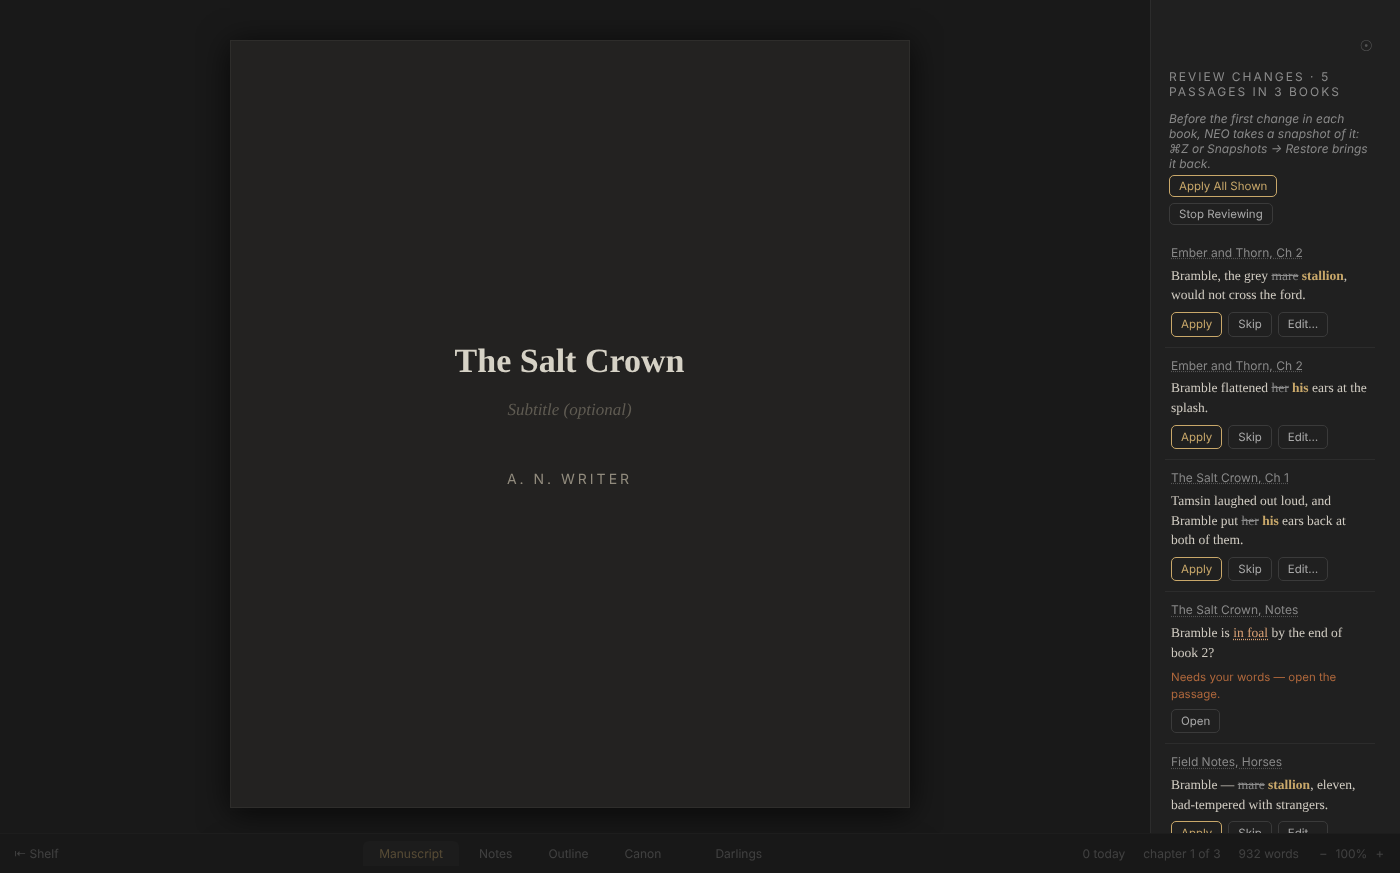
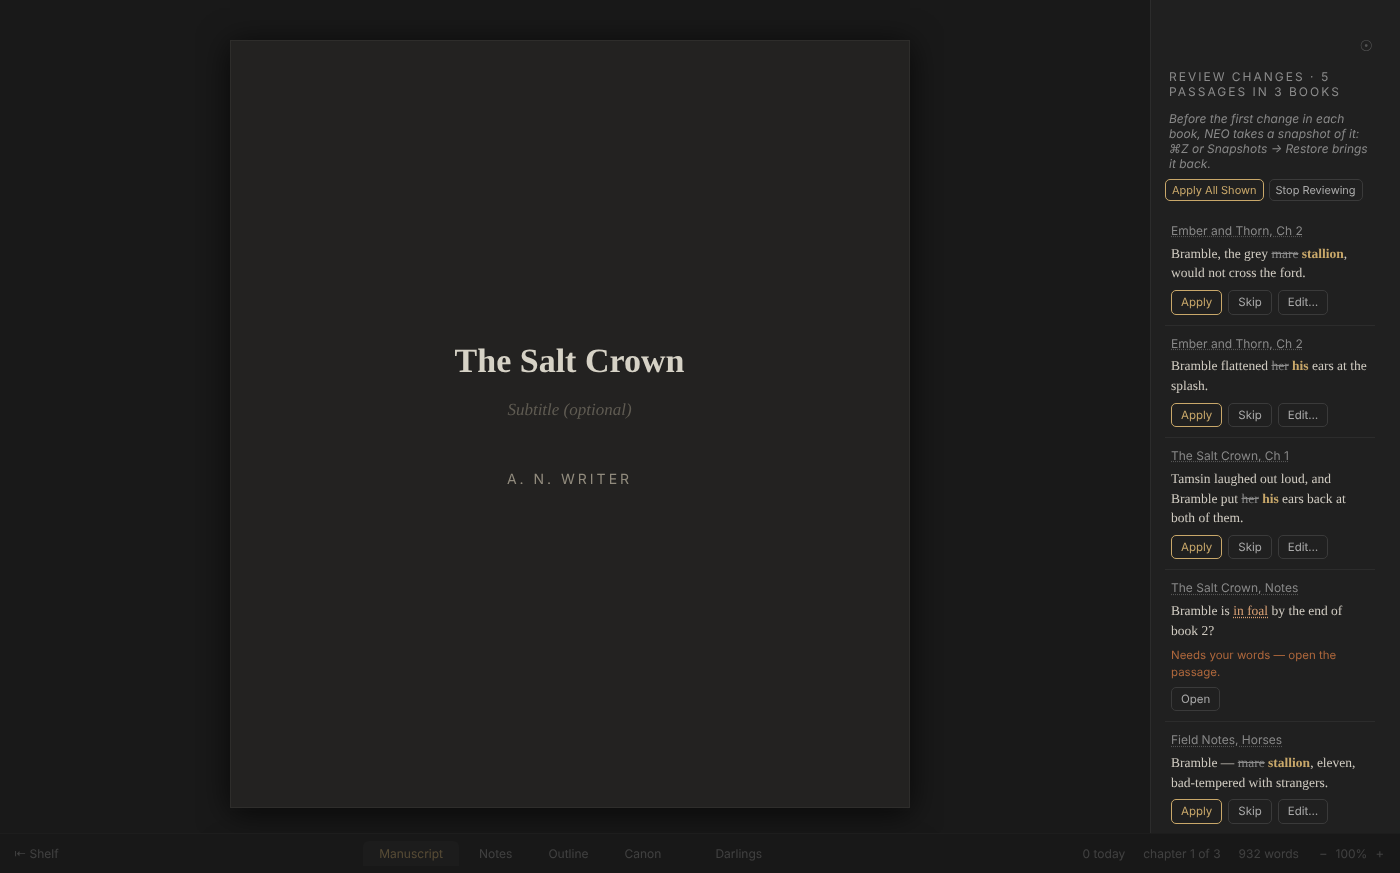
Canon: the review list after ⌘Z, and its two buttons on one line
A passage applied in the open book and undone with ⌘Z is back on the
list to apply again; Apply All Shown and Stop Reviewing no longer wrap in
the narrow pane. The e2e sends keys and hovers again until they land, and
CANON_SHOTS can name the screenshots wanted.

Claude-Session: https://claude.ai/code/session_01Uymcuup9eK8coCqa1NBqGH

Changed region(s): [[0.8293, 0.1856, 0.9829, 0.9588]]

diff --git a/scripts/canon.e2e.js b/scripts/canon.e2e.js
@@ -351,9 +351,12 @@ test('Bramble is now a stallion: the review list, snapshots first, each change a
   assert.match(fs.readdirSync(path.join(LIB, SALT, 'snapshots')).join(), /Z-r-/);
   await js(`document.execCommand('undo')`);
   assert.match(await js(para), /Bramble put her ears back/);
+  await until(`canonReview.items[2].state === 'todo'`); // and the list says so again
   // the rest: Apply All Shown, there once the whole list has been seen
   await js(`${items}.at(-1).scrollIntoView()`);
   await until(`[...document.querySelectorAll('#canon-side button')].some((b) => b.textContent === 'Apply All Shown')`);
+  // Apply All Shown and Stop Reviewing sit on one line in the narrow pane
+  assert.equal(await js(`(() => { const [a, b] = document.querySelectorAll('#canon-side .cs-review-top button'); return a.getBoundingClientRect().top === b.getBoundingClientRect().top && a.getBoundingClientRect().height < 30; })()`), true);
   await js(`[...document.querySelectorAll('#canon-side button')].find((b) => b.textContent === 'Apply All Shown').click()`);
   await until(`!canonReview.items.some((x) => x.state === 'todo')`);
   assert.equal(await js(`document.querySelector('#canon-side .cs-done').textContent`), '4 passages changed, 0 skipped. Bramble is a stallion.');
@@ -513,15 +516,21 @@ test('Mentioned in: reading order, folded after eight, a passage opens its chapt
 });
 
 const SIDE_X = 1395;
+// input sent to a window that's busy settling can be lost: send it again until it lands
+const until2 = async (send, code, tries = 4) => {
+  for (let i = 0; i < tries; i++) {
+    send();
+    try { return await until(code, 2000); } catch (err) { if (i === tries - 1) throw err; }
+  }
+};
 test('In this chapter: the right-hand pane lists who and what the chapter names, the caret\'s in the accent', async () => {
   await js(`openBook('${SALT}')`);
   await until(`book && book.id === '${SALT}'`);
   await js(`switchTab('manuscript')`);
   // the caret in Bramble's paragraph of Ch 1
   await js(`(() => { const p = [...document.querySelectorAll('.chapter[data-id="c1"] .chapter-body p')].find((x) => x.textContent.includes('did not like the convoy')); p.scrollIntoView({ block: 'center' }); const r = document.createRange(); r.setStart(p.firstChild, 3); r.collapse(true); const s = getSelection(); s.removeAllRanges(); s.addRange(r); })()`);
-  wc.sendInputEvent({ type: 'mouseMove', x: 700, y: 400 });
-  wc.sendInputEvent({ type: 'mouseMove', x: SIDE_X, y: 400 });
-  await until(`$('#side-pane').classList.contains('open') && !!document.querySelector('#canon-here .ch-name')`);
+  await until2(() => { wc.sendInputEvent({ type: 'mouseMove', x: 700, y: 400 }); wc.sendInputEvent({ type: 'mouseMove', x: SIDE_X, y: 400 }); },
+    `$('#side-pane').classList.contains('open') && !!document.querySelector('#canon-here .ch-name')`);
   const names = await js(`[...document.querySelectorAll('#canon-here .ch-name')].map((b) => b.textContent + (b.classList.contains('here') ? '*' : ''))`);
   assert.equal(await js(`document.querySelector('#canon-here .ch-title').textContent`), 'In this chapter');
   assert.ok(names.includes('Bramble*') && names.includes('Ilsa Varr'), names.join());
@@ -566,8 +575,7 @@ test('Go to Anything: ⌘K, "grey mare", Enter: the Canon tab shows Bramble', as
   await js(`openBook('${SALT}')`);
   await until(`book && book.id === '${SALT}'`);
   await js(`switchTab('manuscript')`);
-  key('K', [CMD]);
-  await until(`!!document.querySelector('.go-box .go-input') && document.activeElement === document.querySelector('.go-input')`);
+  await until2(() => key('K', [CMD]), `!!document.querySelector('.go-box .go-input') && document.activeElement === document.querySelector('.go-input')`);
   assert.equal(await js(`document.querySelector('.go-input').placeholder`), 'Go to a chapter, an entry, a passage or a command');
   wc.insertText('grey mare');
   await until(`${goRows}.some((r) => / \\| Passage$/.test(r)) && go.shelf.length > 0`);
@@ -586,8 +594,7 @@ test('Go to Anything: a menu command runs as if picked; Esc puts the caret back;
   const caret = `(() => { const s = getSelection(); return s.rangeCount ? [s.anchorNode.textContent.slice(0, 20), s.anchorOffset, document.activeElement.className] : null; })()`;
   await js(`(() => { const p = [...document.querySelectorAll('.chapter[data-id="c2"] .chapter-body p')][1]; p.closest('.chapter-body').focus(); const r = document.createRange(); r.setStart(p.firstChild, 7); r.collapse(true); const s = getSelection(); s.removeAllRanges(); s.addRange(r); })()`);
   const was = await js(caret);
-  key('K', [CMD]);
-  await until(`!!go`);
+  await until2(() => key('K', [CMD]), `!!go`);
   wc.insertText('pap kdp');
   await until(`${goRows}.length > 0`);
   assert.equal((await js(goRows))[0], 'Paperback for KDP… | Command');
@@ -598,8 +605,7 @@ test('Go to Anything: a menu command runs as if picked; Esc puts the caret back;
   // a command: Take Snapshot, through the menu's own item
   const snaps = () => fs.readdirSync(path.join(LIB, SALT, 'snapshots')).length;
   const n = snaps();
-  key('K', [CMD]);
-  await until(`!!go`);
+  await until2(() => key('K', [CMD]), `!!go`);
   wc.insertText('snapshot');
   await until(`(${goRows}[0] || '') === 'Take Snapshot | Command'`);
   key('Return');
@@ -608,8 +614,7 @@ test('Go to Anything: a menu command runs as if picked; Esc puts the caret back;
   // a shelf without a Canon: chapters, passages and commands only
   await js(`stopCanon(library.shelves[0])`);
   await js(`canonTabUpdate()`);
-  key('K', [CMD]);
-  await until(`!!go`);
+  await until2(() => key('K', [CMD]), `!!go`);
   wc.insertText('bramble');
   await until(`${goRows}.some((r) => / \\| Passage$/.test(r))`);
   const groups = new Set((await js(goRows)).map((r) => r.split(' | ')[1].replace(/^.*?(Chapter|Passage|Command)$/, '$1')));
@@ -653,8 +658,7 @@ test('World Map: View → World Map shows every entry; clicking Rook opens Rook'
 });
 
 test('World Map: 2D and 3D, a drag that turns it, Find, the legend; in night and light; nothing written', async () => {
-  key('M', [CMD, 'shift']);
-  await until(`!!document.querySelector('#map-view') && NeoMap.nodes().length > 0`);
+  await until2(() => key('M', [CMD, 'shift']), `!!document.querySelector('#map-view') && NeoMap.nodes().length > 0`);
   await js(`document.querySelector('#map-view .map-modes button[data-mode="2d"]').click()`);
   await tick(900);
   assert.equal(await js(`JSON.parse(localStorage.getItem('neo.mapLook')).mode`), '2d');
@@ -719,8 +723,7 @@ test('World Map: 2D and 3D, a drag that turns it, Find, the legend; in night and
   await js(`mapClose()`);
   assert.deepEqual(libStamps(), stamps); // browsing wrote nothing
   await theme('light');
-  key('M', [CMD, 'shift']);
-  await until(`!!document.querySelector('#map-view') && NeoMap.nodes().length > 0`);
+  await until2(() => key('M', [CMD, 'shift']), `!!document.querySelector('#map-view') && NeoMap.nodes().length > 0`);
   await tick(500);
   wc.sendInputEvent({ type: 'mouseMove', x: 700, y: 400 });
   await tick(200);

diff --git a/app.js b/app.js
@@ -17879,6 +17879,27 @@ function canonReviewList(box, el) {
   });
 }
 
+// ⌘Z after an Apply brings the words back, and the passage back to the
+// list: an applied passage of the open book whose old words read again
+function canonReviewRecheck() {
+  const r = canonReview;
+  if (!r || !book) return;
+  let back = false;
+  for (const x of r.items) {
+    if (x.bookId !== book.id || (x.state !== 'applied' && x.state !== 'edited')) continue;
+    const range = canonPlace(x);
+    if (range && range.toString() === x.span) { x.state = 'todo'; back = true; }
+  }
+  if (back) canonSideUpdate();
+}
+if (CANON_ON) {
+  document.addEventListener('input', (e) => {
+    if (!canonReview || !e.target.closest || !e.target.closest('.chapter-body')) return;
+    clearTimeout(canonReviewRecheck.t);
+    canonReviewRecheck.t = setTimeout(canonReviewRecheck, 150);
+  }, true);
+}
+
 // the book open, and the passage lit (Edit… and "Needs your words")
 const canonOpenPassage = (x) => canonOpenSource({ book: x.bookId, ch: x.notes ? 'notes' : x.chId, quote: x.sentence });
 

diff --git a/styles.css b/styles.css
@@ -2243,7 +2243,8 @@ body.light .canon-pop button { color: #555; border-color: #ccc; }
 #canon-side .cs-sent b { color: var(--accent); font-weight: 600; }
 #canon-side .cs-sent mark { background: none; color: #d9a074; text-decoration: underline dotted; }
 #canon-side .cs-row button.cs-main { border-color: var(--accent); color: var(--accent); }
-#canon-side .cs-review-top { margin: 0 4px 10px; }
+#canon-side .cs-review-top { margin: 4px 0 12px; flex-wrap: nowrap; gap: 5px; }
+#canon-side .cs-review-top button { white-space: nowrap; padding: 3px 6px; font-size: 11px; flex: none; }
 #canon-side .cs-applied, #canon-side .cs-edited, #canon-side .cs-skipped { opacity: 0.6; }
 #canon-side .cs-done { color: var(--accent); font-size: 12.5px; padding: 4px 4px 10px; }
 .canon-pop .cp-ask { margin: 10px 0 2px; font-size: 12.5px; line-height: 1.45; max-width: 340px; }

diff --git a/docs/semantics/ARCHITECTURE.md b/docs/semantics/ARCHITECTURE.md
@@ -509,7 +509,7 @@ Each milestone ends with `npm test` green, `npm run lint` clean, and `node scrip
 35. **Entry files are forgiving (QA #3).** Only broken front matter is unreadable (with its line). Unknown lines are kept where they were (`fact.notes`, `entry.lead`). The file name is the entry's id. An unreadable file stays a locked stand-in during a read so its name isn't taken twice.
 36. **Values outside the lexicon (QA #4)** are kept as written and are never checked (`lexical`); two of the writer's own values for one attribute check nothing until one is set aside.
 37. **Marks follow the text (QA #6)**: Apply no longer drops a slip; a slip shows while its paragraph still hashes as when found, repainted on `input`, so ⌘Z brings it back.
-38. **M9 — change across the series.** Entry points: the popover's "Bramble is now a stallion…" (a confirmation in the popover) and Edit on a checked trait (Find Passages / Just Change the Fact). The entry changes first (`replaceFact`: old values to Set aside with their sources). `canon:passages` runs the pass's own checkers over the whole shelf (Notes and notebooks included, left-out pages not, dismissals ignored) for that entry and attribute, plus `ONLY` phrases (in foal, sired…) as `to: null`. The window applies: the open book through `execCommand` after `snapshotStructure` + `takeSnapshot('r')`; other books through `readChapter` → `replaceInHtml` (one text run only, else "Needs your words") → `writeChapter(…, expected)`, after `takeSnapshot('r', disk text, { meta })`. **A book's Notes is never swapped automatically**: snapshots don't hold `notes.html`, so those passages are listed as "Needs your words" with Open. Apply All Shown appears once an IntersectionObserver has seen the last item. A change undone with ⌘Z still reads "Changed" in the list (the list is a record of what was applied).
+38. **M9 — change across the series.** Entry points: the popover's "Bramble is now a stallion…" (a confirmation in the popover) and Edit on a checked trait (Find Passages / Just Change the Fact). The entry changes first (`replaceFact`: old values to Set aside with their sources). `canon:passages` runs the pass's own checkers over the whole shelf (Notes and notebooks included, left-out pages not, dismissals ignored) for that entry and attribute, plus `ONLY` phrases (in foal, sired…) as `to: null`. The window applies: the open book through `execCommand` after `snapshotStructure` + `takeSnapshot('r')`; other books through `readChapter` → `replaceInHtml` (one text run only, else "Needs your words") → `writeChapter(…, expected)`, after `takeSnapshot('r', disk text, { meta })`. **A book's Notes is never swapped automatically**: snapshots don't hold `notes.html`, so those passages are listed as "Needs your words" with Open. Apply All Shown appears once an IntersectionObserver has seen the last item. A change in the open book undone with ⌘Z goes back on the list, to be applied again (IDE.md §9 note 13).
 39. **M10 — notebooks.** `isNotebook(meta)` beside `isScript`. Every page's kind reads as `unnumbered` (`chapterKind`), so NEO's own machinery gives titled, unnumbered pages; the body gets `no-cap`; the nav reads Pages / + Page with no outline notes; the Outline and Notes tabs are hidden; no word goal on the shelf menu and no progress bar; cover choices are gone (the tile is CSS only: `.nb-tile`, cloth, band, ribbon, paper label). `shelfBookData` leaves notebooks out of a bound book and an anthology; exports are text, Markdown, HTML and Word (`NOTEBOOK_FORMATS`, also enforced in `doExport` for the menu path). New Notebook is the third item on the shelf +'s right-click menu only (no File menu item). A page's right-click menu is Leave Out of Canon / Export Page… / Delete (no kinds). **Leave Out of Canon** writes `canon.json`'s `out` (the book never changes); the Notes tab label's right-click offers the same for a book's Notes. Bringing a page back drops its `read` hash (`canon:saveMeta`'s `unread`) so it is read again at the next pause. Pocket has no `canon*` bridge, so a notebook there is an ordinary book with unnumbered pages.
 40. **M11.** **Merge Into…** (an entry's right-click in the Canon list, then the entry to join): `mergeEntry` makes the name and aliases aliases, merges facts (sources joined; a value that differs from one already there waits as *disagree* unless it was the writer's), appends Set aside facts and *In my words*; the merged file then moves to `set-aside/` whole (P2 #24). **Dismissed (n)** sits at the foot of the Canon tab's right-hand pane (shown even without a reader), listing each Not a slip with its line and a Restore that removes it from `not-slips.json`. **Read Everything Again** appears under Read the Shelf once something has been read (`again: true`; the writer's facts stay, P1 #17). **Not built**: the popover's "4 more" list of every mention, and embeddings — no measurement here shows the known-entries list outgrowing the prompt (§8 note 5), so nomic stays out.
 41. **Lint and tests**: `npm test` 129 pass (one opt-in real-model test skipped); `npm run lint` reports the same 29 errors as before Canon; `canon.e2e.js` 17 checks (`CANON_SHOTS=1` to refresh docs/semantics/screens/).

diff --git a/docs/semantics/IDE.md b/docs/semantics/IDE.md
@@ -253,3 +253,5 @@ Files touched:
 10. **Looks.** Each kind's node is a sprite drawn once per colour (a soft glow and a lit sphere) and stamped with `drawImage`; links fade from one kind's colour to the other's (a plain blend above 120 nodes, and smaller halos, to keep a frame cheap); *appear together* is dotted and faint. In 3D, far nodes are smaller and dimmer and are drawn first. Hovering lights a node and its neighbours and dims the rest; its kind shows under its name. Names are placed largest first, beside the node (on the right, else the left; in the small map under, else over), never over a name already placed, with a halo of the background so lines don't cut through them. A turn let go of carries on and slows; dragging a node pins it (a ring) and its neighbours follow for a moment. Nothing animates while the map is still. The dark map is a soft radial gradient with a little fixed dust; the light theme gets a warm paper version. Measured with a pixel read-back each frame, a 300-entry world turns at ~9 ms a frame (90th percentile) in this VM's software renderer (the e2e asserts < 16 ms).
 11. **The full view** covers the window above the bottom bar (not just the page column), and the right-hand pane steps aside while it is up. Controls are one translucent card in the top-right corner, hidden until the map is hovered: 2D · 3D, Find on the map (also ⌘K while the map is up; it centres and pulses the best match by name or alias, using `goRank`), the legend (only the kinds present), and "Show who appears together". The shelf's name sits faintly top-left. Esc (caught before the page's own Esc), the tabs, ⌘⇧M again, or opening an entry close it. View → World Map is `registerAccelerator: false` and the window answers ⌘⇧M; without a Canon it says so in a toast.
 12. **The small map** is always flat (a few neighbours read best without perspective), shows the open entry and those one step away (or the whole world), and labels only those. It needs no reader: the Canon tab's pane now opens whenever `map.js` is there. Sizes and *appear together* come from `canon:index`, asked again when the entries change or the full view opens.
+13. **Leftovers from M9–M11.** Apply All Shown and Stop Reviewing now sit on one line in the 250 px pane (no wrapping, a little less padding). After ⌘Z in the open book, a passage that reads as it did before its Apply is *to do* again (checked on `input`, 150 ms after the last, only for the open book's applied passages; another book's change is undone through Snapshots → Restore, which the list can't see).
+14. **e2e.** `scripts/canon.e2e.js` has 26 checks. `CANON_SHOTS=1` writes every screenshot; `CANON_SHOTS=map,go-any` only those whose names hold one of the parts. Keys and hovers sent while the window settles are sent again until they land (`until2`). New screenshots: `canon-entry-backlinks.png`, `canon-in-this-chapter.png`, `canon-go-anything.png`, `canon-map-widget.png`, `canon-map-2d-night.png`, `canon-map-3d-night.png`, `canon-map-2d-light.png`, `canon-map-3d-light.png`.
